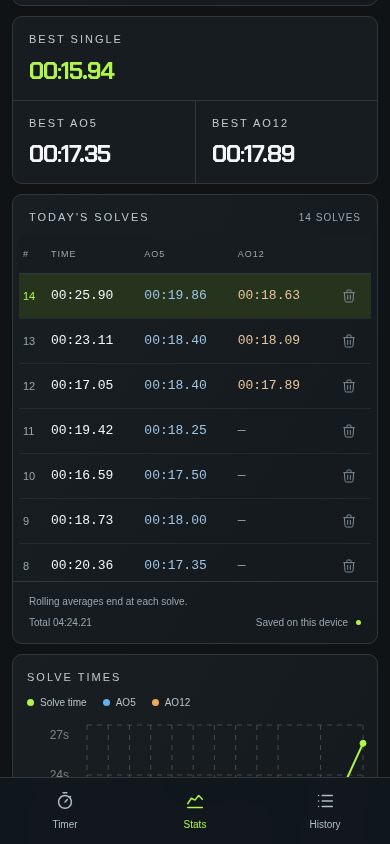
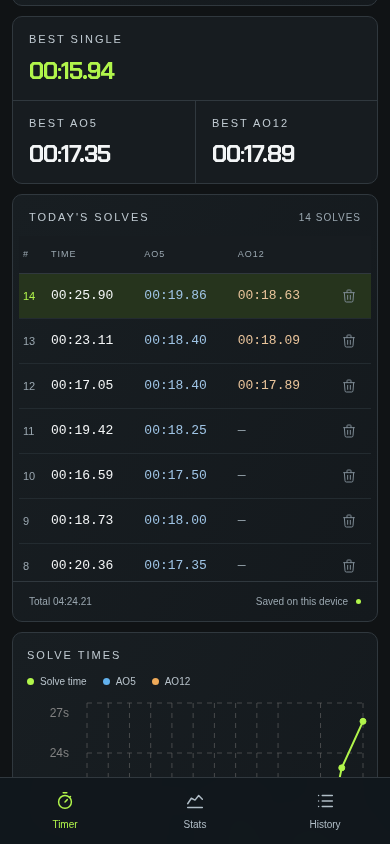
Remove explanatory caption from results footer (#25)

diff --git a/src/App.test.tsx b/src/App.test.tsx
@@ -238,6 +238,13 @@ it("shows chronological rolling values and earlier best averages, recalculating 
   expect(bestValue("Best single")).toHaveTextContent("00:10.00");
   expect(bestValue("Best AO5")).toHaveTextContent("00:30.00");
   expect(bestValue("Best AO12")).toHaveTextContent("01:05.00");
+  expect(screen.getByText("Total 15:10.00")).toBeInTheDocument();
+  expect(
+    screen.queryByText("Rolling averages end at each solve."),
+  ).not.toBeInTheDocument();
+  expect(
+    screen.queryByRole("heading", { name: "Total time" }),
+  ).not.toBeInTheDocument();
   fireEvent.click(screen.getByRole("button", { name: "Delete solve 3" }));
   expect(bestValue("Best AO5")).toHaveTextContent("00:36.67");
   expect(bestValue("Best AO12")).toHaveTextContent("01:14.00");

diff --git a/scripts/review/browser-statistics-check.js b/scripts/review/browser-statistics-check.js
@@ -68,6 +68,12 @@ export default async (page) => {
     ),
     "Total time stays available in the results footer",
   );
+  assert(
+    (await page
+      .getByText("Rolling averages end at each solve.", { exact: true })
+      .count()) === 0,
+    "Results footer keeps the total without the explanatory caption",
+  );
   await page
     .getByRole("button", { name: "Delete solve 3", exact: true })
     .click();

diff --git a/src/App.tsx b/src/App.tsx
@@ -863,7 +863,6 @@ const App: React.FC = () => {
                 </div>
               )}
               <div className="history-footer">
-                <p>Rolling averages end at each solve.</p>
                 <div className="history-meta">
                   <span>Total {formatTime(statistics.totalTime)}</span>
                   <span>
